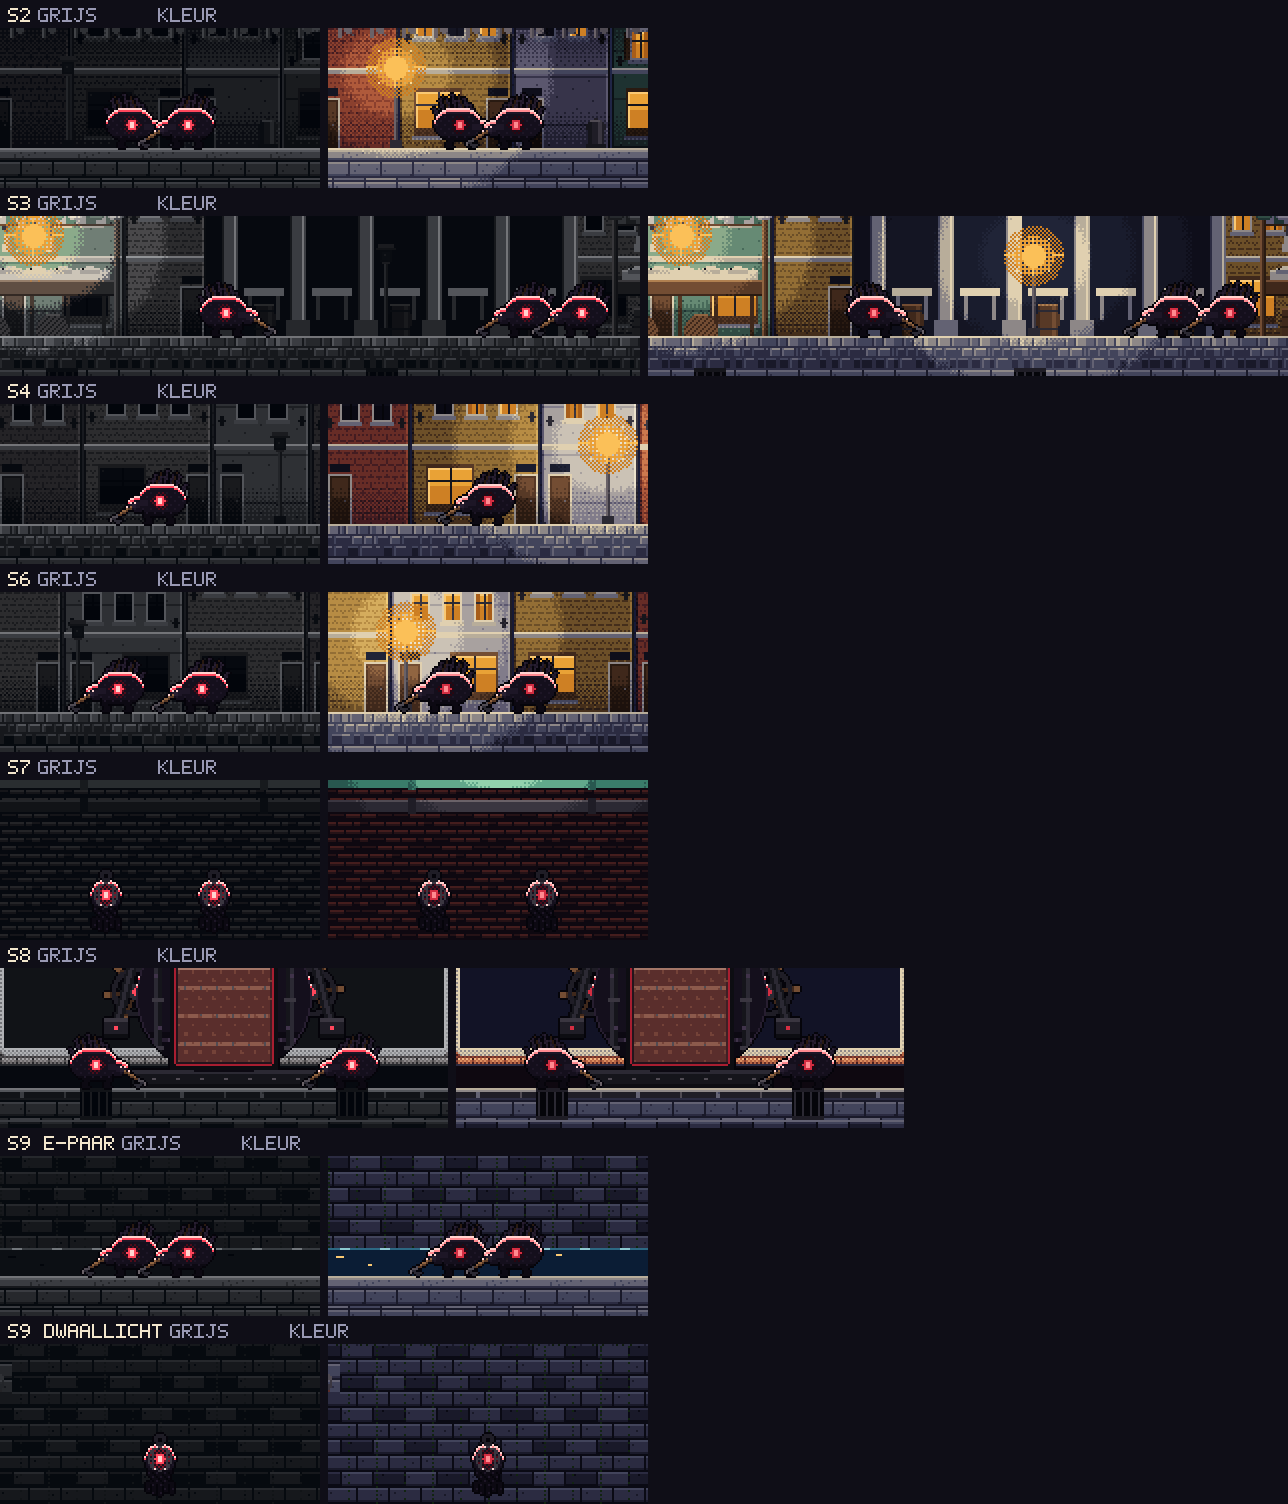
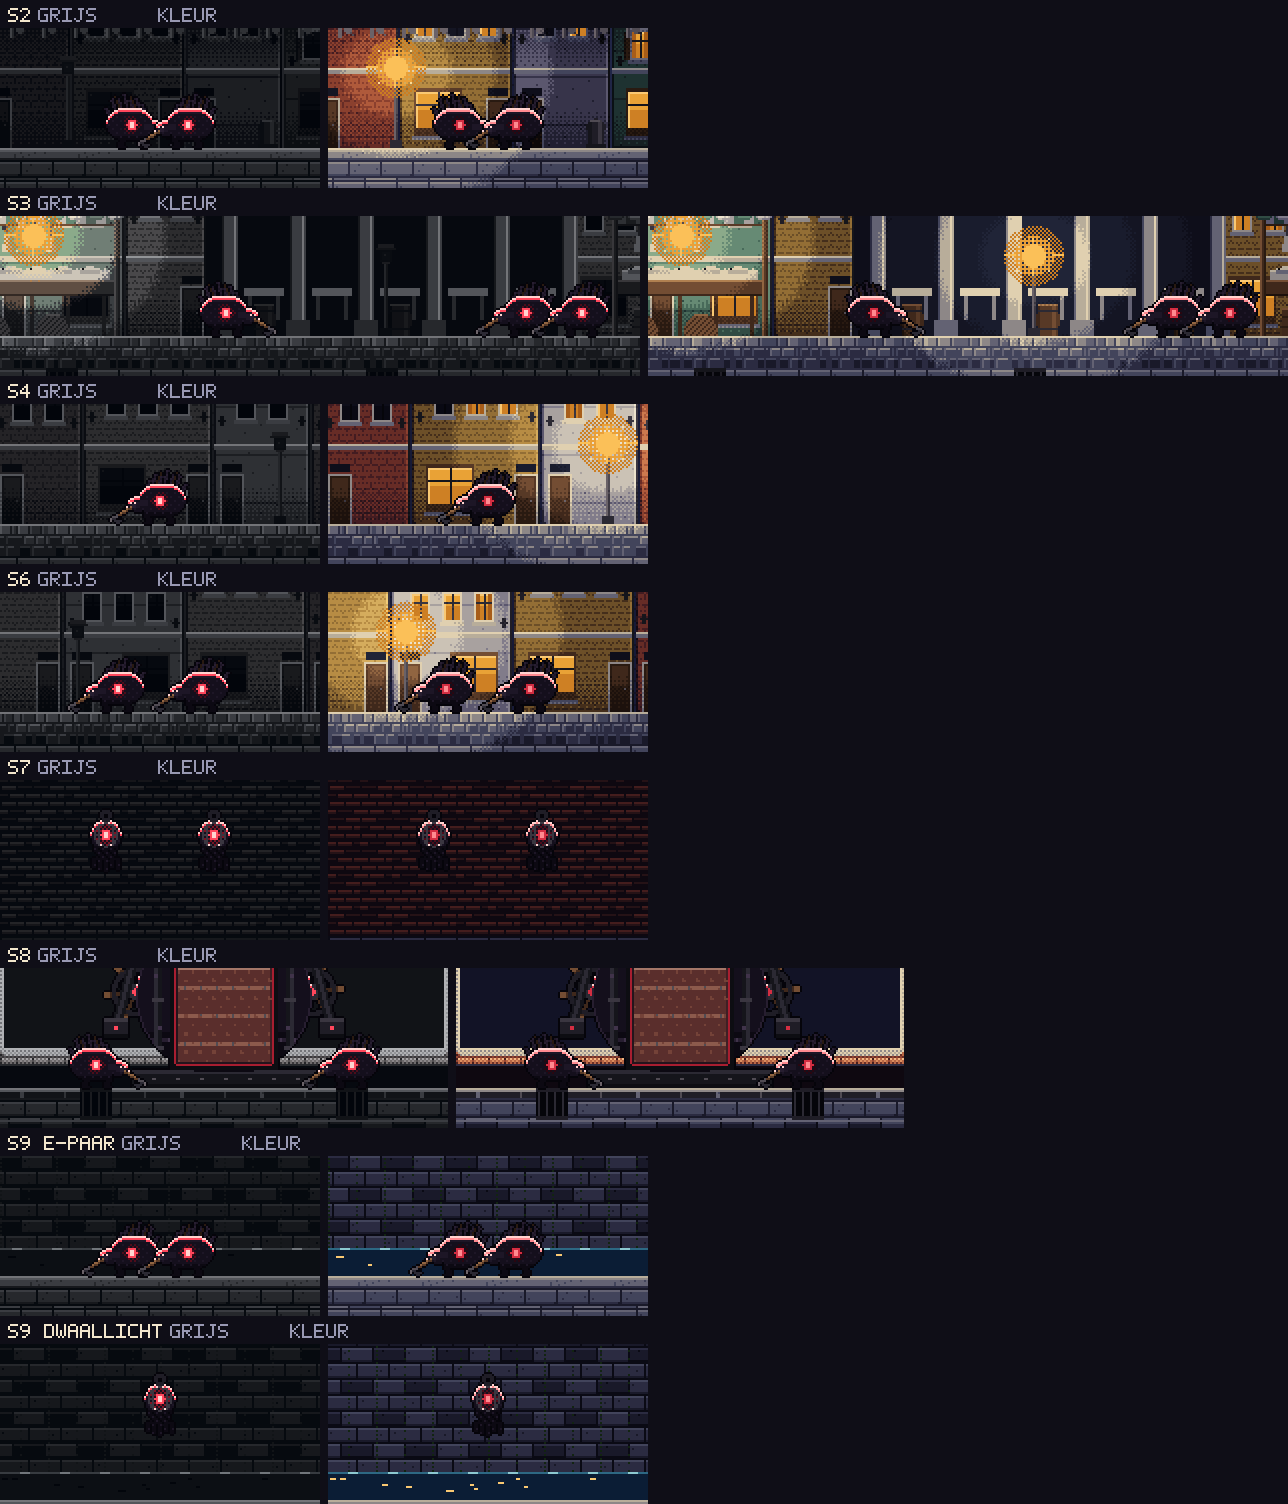
[animator] Her-review AD: dubbel blok uit timing §2.4, uitsnede Dwaallicht lager (#272)
Claude-Session: https://claude.ai/code/session_01L3XQzgCATzQNpswtev634r

Changed region(s): [[0.0, 0.5, 0.4969, 0.625], [0.0, 0.875, 0.528, 1.0]]

diff --git a/docs/art/slice/bron/genereer_vijanden.py b/docs/art/slice/bron/genereer_vijanden.py
@@ -1053,6 +1053,8 @@ def kamers_blad(KM):
         rx, ry = int(B[id_]["rect"][0]), int(B[id_]["rect"][1])
         cx = int(np.mean([wx for _, wx, _, _ in lst])) - rx
         cy = int(np.mean([wy for _, _, wy, _ in lst])) - ry - 20
+        if all(t == "dwaallicht" for t, _, _, _ in lst):
+            cy += 30                                      # zwevend: sluier en kade (of water) eronder in beeld
         w = max(160, int(max(wx for _, wx, _, _ in lst) - min(wx for _, wx, _, _ in lst)) + 96)
         w = min(w, 320)
         beelden = []

diff --git a/docs/art/animatie-timing.md b/docs/art/animatie-timing.md
@@ -252,139 +252,6 @@ Tells (`*_tell_*`): `vroeg` (25 %), `laat` (75 %), beide vijandkern 4 met een ge
 
 In grijs haalt de bovenrand overal ≥ 77; het donkere lijf leest daar niet (1–6), zoals deel 1 §4.2 verwacht. In kleur haalt elke plek ≥ 40 op rand, lijf of contour: S2 x 880 en S6 x 4340 op hun lijf en contour (de achtergrond is licht), S6 x 4382 op de bovenrand (46,2) en de contour (40,9). De bovenrand p90 meet de lijn in kern 7, en die is niet veranderd. De rij eronder in kern 6 maakt de rand in kleur breder en lichter.
 
-Tells: ΔL\* van het vlak met en zonder tell, gemiddeld over het vlak, en die van de gezette pixels zelf (mediaan). Sinds v0.1.1 staan vroeg en laat allebei in **vijandkern 4**. Ze verschillen alleen nog in dichtheid (25 % tegen 75 %), zodat ook de vroege stap zonder kleur leest (Lead-review AD op PR #266; was vijandkern 3, 4,8 / 3,9):
-
-| Tell | Grijs vroeg / laat / actief | Kleur vroeg / laat / actief | Gezette pixels, vroeg en laat (grijs / kleur) |
-|---|---|---|---|
-| Pompslag (fase 1 links, vóór de plint en de wand) | **7,4** / **20,0** / **31,8** | 6,5 / 17,4 / 28,6 | 41,7 / 40,7 |
-| Schoepenzwiep (links, vóór het tegenlicht van het raam) | **9,2** / **24,7** / **37,0** | 8,4 / 22,5 / 34,1 | 41,5–41,7 / 39,4–40,6 |
-
-De tell wordt in luminantie elke stap duidelijker. Elke gezette pixel van de vroege stap ligt nu ± 40 in L\* van de achtergrond. Gemiddeld over het vlak is hij zacht (7–9), want maar een kwart van de pixels is gezet: dat is het verschil met laat (17–25). Zo leest hij zonder kleur als een gestippeld vlak dat dichter wordt (`s8_gemaalmeester_leesbaarheid_x2.png`).
-
-**Punt van de CD (#247): de holle echo naast P1 bij de ketel.** P1 staat bij het schot, de echo op 6 en op 3 px (half en bijna helemaal over P1), vóór het schot en vóór de open kern:
-
-| | Rand van de echo, waar hij niet over P1 valt (p90) | Bijna-zwarte contour van de echo over P1 (mediaan) |
-|---|---:|---:|
-| grijs, schot | 55,0 | 66,5 (6 px) / 40,0 (3 px) |
-| grijs, kern | 64,4 | 66,5 / 40,0 |
-| kleur, schot | 46,3 | 66,5 / 50,2 |
-| kleur, kern | 55,1–55,7 | 66,5 / 50,2 |
-
-Alles haalt ≥ 40. Het donkere lijf en het roestschot zijn een rustige, donkere achtergrond. Daarop leest de lichte rand van de echo als tweede lichaam, en waar hij over P1 valt, scheidt zijn bijna-zwarte buitencontour hem van de crème jas. Vóór de kern schijnt het rood door de arcering: dat is de holte. Op 3 px wordt het krap in grijs (40,0, op de grens). Dat is de echo-weergave van de TA (F-07), niet de boss: zie §1.7.
-
-### 1.6 Overdracht aan de TA en de GP
-
-Het manifest (`koppeling`) zegt per signaal en vlag welke animatie loopt. Kort:
-
-1. Vervang `_build_visual`/`update_visual` (de placeholder-polygons) door `Sprite2D`'s met `region_rect` uit het manifest, `centered = false`, op de offsets en z-indexen van §1.2. Kies de toestand zoals in de wijk: in het gevecht `grijs` (s = 1).
-2. Tell en effect op `attack_box`. Kies het frame met `windup_progress(tick)` en `is_attack_active()`. Het lichaam kiest zijn aanloopframe ook op `windup_progress`, met de uithaal op de laatste 3 ticks van de aanloop.
-3. `zwiep_rechts` is `zwiep_links` gespiegeld, al uitgerekend; de plaatsing is gelijk (`attack_box.position`).
-4. Het rad tijdens `TURNING` met `ticks_draaien`; de trilframes verschuiven zelf 1 px (de code zet de jitter van de placeholder dan op 0).
-5. De `.import`-bestanden zijn gecommit (Lossless, mipmaps uit, zoals de kadewijk-art).
-
-### 1.7 Open punten
-
-- **Koppeling** (§1.6): TA met GP, daarna een SM-review (code in `game/`).
-- **De loopkat in de achtergrond van S8** (deel 5, midden boven de boss) blijft staan als het rad wegrijdt. Het rad heeft nu zijn eigen loopkat. Voorstel aan de AD: de vaste loopkat uit `s8_machinehal_midden_*` halen, of hem als "parkeerplek" laten staan.
-- **Scheuren per kant op het rad** (`s0`–`s3`) en de ketel als voortgang: besluit van de UX Designer (combat §9.2).
-- **Echo op 3 px over P1 in grijs:** ΔL\* 40,0, op de grens. Als de echo-shader er is (F-07/S-10), meet ik opnieuw. Voorstel voor de TA, zoals de AD in §9.7 van het slice-document: de bijna-zwarte buitencontour van de echo altijd 1 px laten staan, ook waar hij over P1 valt.
-- **De gedeelde echo van de finisher** (S-15) is van de TA met de AD. De boss speelt in die 120 ticks `wankel` en bij elke finisherslag `geraakt`.
-- **Audio** (T8d): de frames volgen de tels van §9.3 van combat (sissende zuiger in de aanloop, de tink, de breuk, het ratelen van het rad). De Audio Director kan de tick-lijsten uit het manifest gebruiken.
-- **Ware Deck-test** van de boss en de tells (bible §10): TA bij de eerste Deck-build.
-
-## 2. De slice-vijanden: Kadeloper, Schotdrager, Dwaallicht (S-13)
-
-Werkaanname (kader §5): S1–S9 zijn maatvast (#83), dus eindkwaliteit mag (kader §4 regel 3). Bron van de vorm: deel 1 §4 van `slice-kadewijk.md` en de concepten `concept_vijanden_*`; bron van de tijden: combat §2 en §9.1 via `slice.csv`. Ik heb **geen `.gd` en geen scènes gewijzigd**: de koppeling doen de TA en de GP (§2.5).
-
-### 2.1 Bestanden
-
-| Wat | Waar |
-|---|---|
-| Generator (deterministisch, ± 45 s, geen externe assets) | `docs/art/slice/bron/genereer_vijanden.py`: `python3 docs/art/slice/bron/genereer_vijanden.py` vanaf de repo-root. Gebruikt de helpers van de Gemaalmeester en de kamers van deel 2–5 (die hoeven niet opnieuw). |
-| Atlassen in grijs, half, kleur en index, met `.import` (formaat van de Gemaalmeester) | `game/art/animatie/<type>/<type>_{grijs,half,kleur,index}.png` en `<type>_tell_*`, `dwaallicht_duiklijn_*` |
-| Manifest per type: cel, offset (rechts en links), z, per animatie de frames, ticks, lus/volgt en de vlag die het frame kiest | `game/art/animatie/<type>/<type>.json` |
-| Overzichtsbladen ×2 | `docs/art/slice/eindkwaliteit/vijanden_bladen_{grijs,kleur}_x2.png` |
-| Tell-momenten op hun plek (staan, aanloop vroeg/laat, actief, stil; S3 en S7) | `vijanden_tells_x3.png` |
-| Elke plek uit combat §2.6 (S2, S3, S4, S6, S7, S8, S9 met twee uitsneden: E-paar 1060/1088 en Dwaallicht 2310), grijs en kleur | `vijanden_in_de_kamers_x2.png` |
-| Leesbaarheid (luminantie en deuteranopie) | `vijanden_leesbaarheid_x2.png` |
-| GIF (grijs, de drie types naast elkaar, 4,9 s, elke 3e tick) | `vijanden_animaties.gif` |
-
-### 2.2 Opbouw en plaatsing
-
-De node van een vijand staat in het midden van zijn hurtbox (`slice_enemy.gd`). Alle offsets zijn linksboven van de cel, `centered = false`, met de 1 px transparante rand van §1.4 al meegerekend.
-
-| Blad | Cel (met rand) | Offset rechts / links | Wat valt waar |
-|---|---|---|---|
-| `kadeloper`, `schotdrager` | 58 × 42 | (−23, −27) / (−35, −27) | Kijkrichting rechts getekend; links = `flip_h` met `offset_links`. De hurtbox 16 × 24 valt op kolom 15–31, rij 15–39; de vloer op rij 39. Beeld ± 30 × 26 (Schotdrager 22 breed met het schot, deel 1 §4.1) |
-| `kadeloper_tell_haak` | 22 × 18 | (−1, −1) op `_walker_box().position` | precies het vlak van 20 × 16 |
-| `schotdrager_tell_stoot` | 26 × 18 | idem | het vlak van 24 × 16 |
-| `dwaallicht` | 34 × 50 | (−17, −23), symmetrisch | hurtbox 16 × 16 op kolom 9–25, rij 15–31 |
-| `dwaallicht_tell_duik` | 18 × 18 | (−1, −1) op de landingsplek (node.x − 8, vloer − `duik_hoogte` − 16) | waar zijn lichaam na de duik is: dat is het vlak |
-| `dwaallicht_duiklijn` | 5 × 42 | (−2, −1) op (node.x, node.y + 8) | gestippelde lijn naar het vlak; `region_rect` = de bovenste (baan − duik − 16) px (in de slice 8) |
-
-### 2.3 Frames en tijden
-
-Kadeloper (`kadeloper`):
-
-| Animatie | Frames | Ticks per frame | Wat | Vlag |
-|---|---:|---|---|---|
-| `staan` | 4 | 12 (lus) | ademt, de stekels wiegen, knippert | geen beweging (VJ-05 houdt hem tegen) |
-| `lopen` | 6 | 8 (lus) | laag, kop vooruit, de haak bungelt; 48 ticks = 24 px bij 0,5 px/tick | v > 0 |
-| `haak_aanloop` | 5 | 7 7 7 6 **3** (verlicht: 10 9 9 9 **3**) | **anticipation:** de haak gaat in 4 stappen omhoog en naar achteren boven de kop, het lijf leunt weg, de ogen gaan wijd, de kern zwelt. Frame 4 = uithaal met veeglijn | `windup_progress` |
-| `haak_slag` | 2 | 3 3 | **het verste frame:** de haak op x 28 (de verste rand van het vlak), 5 px boven de vloer, lijf naar voren, veeg en stof | Phase.ACTIVE (6) |
-| `haak_herstel` | 2 | 10 10 | de haak ligt, wordt teruggetrokken | Phase.RECOVER (20) |
-| `stil` | 3 | 4 18 8 | schok, knik (1 px lager, ogen een streep, kern een tint zachter), terug | VJ-04 (30) |
-| `dood` | 8 | 6 × 8 | lost op in donker water: hij zakt in, wordt water, de kern dooft als laatste, de plas trekt weg | levens 0 (voorstel 48 ticks) |
-| `uit_stoom` | 5 | 6 × 5 | frame 0 alleen stoom (geen contour: een hol silhouet is de beeldtaal van de echo, bible §6 regel 1), dan een donker silhouet, de ogen, dan rand en kern; de stoom zakt | add uit een spuigat (`add_inactief` 30) |
-
-Schotdrager (`schotdrager`): `staan`, `lopen`, `stil`, `uit_stoom` en `dood` zoals de Kadeloper, plus:
-
-| Animatie | Frames | Ticks | Wat | Vlag |
-|---|---:|---|---|---|
-| `stoot_aanloop` | 5 | 7 7 7 6 **3** | het schot gaat in 4 stappen naar achteren tegen het lijf, het lijf duikt in; uithaal met veeglijnen achter hem | `windup_progress` |
-| `stoot_actief` | 2 | 3 3 | **het verste frame:** de voorkant van het schot op x 32 (de verste rand van het vlak van 24) | Phase.ACTIVE (6) |
-| `stoot_herstel` | 2 | 10 10 | het schot komt terug | RECOVER (20) |
-| `tink` | 1 | 4 | witte ster en witte bovenrand op het schot: dit is pantser (VJ-07) | `tink()` (TINK_TICKS 4) |
-| `breuk` | 3 | 4 4 4 | barsten met rode gloed, het schot springt in drie stukken en valt | `break_armor()` (12) |
-| `stuk` | 1 | — | de drie stukken op de vloer, zonder vijand: blijft liggen waar hij brak | losse Sprite2D op de node-positie bij de breuk |
-| `gebroken_*` | 4/6/5/2/2/3 | als hierboven | de Kadeloper met de riem en een stuk schot in de hand; hij stoot met het stuk tot x 32 (zelfde vlak) | na `break_armor()` |
-
-Dwaallicht (`dwaallicht`):
-
-| Animatie | Frames | Ticks | Wat | Vlag |
-|---|---:|---|---|---|
-| `zweven` | 6 | 8 (lus) | dobbert 1 px, de sluier wiegt | op zijn baan |
-| `aanloop` | 5 | 7 7 7 6 **3** (verlicht: 10 9 9 9 **3**) | de kern zwelt in 4 stappen, de spijlen gloeien rood mee, de sluier spreidt; frame 4: hij trekt zich 2 px op. Tegelijk `tell_duik` en de duiklijn op de landingsplek | `windup_progress` |
-| `duik` | 2 | 4 4 | **het verste frame:** kern fel, sluier en snelheidsstrepen slepen omhoog; zijn lichaam is het vlak | ACTIVE (8), de code verschuift de node |
-| `terug` | 4 | 10 × 4 | kern gedimd, sluier slap | RECOVER (40) |
-| `stil` | 6 | 5 × 6 | flakkert: de kern gaat aan en uit, de kooi rammelt 1 px | VJ-04 (30) |
-| `dood` | 8 | 6 × 8 | de kern flitst, de kooi springt in brokken uiteen en valt, alles dooft | levens 0 (voorstel 48) |
-
-Tells (`*_tell_*`): `vroeg` (25 %), `laat` (75 %), beide vijandkern 4 met een gestippelde bovenlijn, en `actief` (vol, rand in kern 7): dezelfde tell-taal als de Gemaalmeester (§1.3). De sprite ligt boven de tell (z 0 tegen 1 mag ook: in het actieve frame moet de haak of het schot op het vlak zichtbaar zijn; in de renders staat de sprite bovenop).
-
-### 2.4 Regels en metingen
-
-- **Anticipation en het verste frame:** elke aanval heeft een aanloop in 4 stappen plus een uithaal van 3 ticks; het actieve frame reikt precies tot de verste rand van het vlak (haak x 28, schot x 32, duik = lichaam).
-- **Waar, niet alleen dat** (deel 1 §4.3): de pose wijst de kant en de hoogte aan (haak boven de kop naar voren, schot naar achteren, kern zwelt boven de landingsplek) en de tell ligt precies op het vlak.
-- **Bovenrand van 2 px** op de rug, de nek en de kop (en de kooi van het Dwaallicht), niet op elke stekel of rafel: zo is het één doorlopende lijn over de hele lengte (deel 1 §4.2 regel 4). De stekels zijn een tint lichter lijf. De lijn is vijandkern 7 met eronder kern 5 (grijs en half) of **kern 6 (kleur)**; was 4 in kleur (Lead-review AD op PR #275).
-- Vijandkleuren houden hun kleur in elke toestand; water en stoom volgen de toestand. Grijs en half = donkere wijk (rand en kern een tint feller, VJ-06), kleur = verlicht (S9). Geen amber of cyaan, geen rotatie, contour 1 px, 1 px rand per frame: **0 pixels op de rand van een cel** (gecontroleerd door de generator, 138 frames per toestand).
-
-ΔL\* tegen de ring van 2–6 px rond de figuur, op elke plek uit combat §2.6 (scène-x, D = 60). Bovenrand p90; lijf mediaan; bible §6 regel 4 vraagt ≥ 40 op vulling of contour, deel 1 §4.2 ≥ 50 op de bovenrand:
-
-| Kamer, plek | Grijs: bovenrand / lijf | Kleur: bovenrand / lijf |
-|---|---|---|
-| S2 E-paar 880 / 908 | **81,4 / 77,4** · 1,8 / 5,8 | 39,2 / **58,9** · **44,0** / 24,3 |
-| S3 golf 1: 2140 / 2168 / 2360 | **80,2 / 79,1 / 79,1** | **69,9 / 60,1 / 62,2** |
-| S3 golf 2: Schotdrager 1770, 1798, 1990 | **79,1 / 78,7 / 80,2** | **50,2 / 58,9 / 69,8** |
-| S4 overkant 3260 | **78,5** | **52,1** |
-| S6 K-paar 4340 / 4382 | **77,4 / 78,5** | 31,4 / 46,2 · lijf **51,8** / 37,0 |
-| S7 Dwaallichten 5013 / 5067 | **86,0** | **85,7** |
-| S8 adds bij de spuigaten (vóór de boss) | **82,7** | **81,7** |
-| S9 E-paar 1060 / 1088 (verlicht) | **80,2** | **69,9** |
-| S9 Dwaallicht 2310 (verlicht) | **80,2** | **69,9** |
-
-In grijs, de toestand waarin S2–S8 gevochten worden, haalt de bovenrand overal ≥ 77; het donkere lijf leest daar niet (1–6), zoals deel 1 §4.2 verwacht. In kleur haalt hij ≥ 50 behalve S2 x 880 (39,2) en S6 (31,4 en 46,2): daar is de achtergrond licht en leest het lijf zelf (44,0 en 51,8 ≥ 40); alleen S6 x 4382 (46,2 / 37,0) haalt geen van beide. Die toestand komt in de slice niet voor (S2–S8 kleuren pas als het gemaal vol is, en dan keren de vijanden niet terug, combat §2.2); zie §2.6.
-
 Tells: ΔL\* van het vlak met en zonder tell (gemiddeld) en van de gezette pixels (mediaan), vroeg / laat / actief:
 
 | Tell, kamer | Grijs: gemiddeld | Grijs: gezette pixels | Kleur: gemiddeld | Kleur: gezette pixels |
